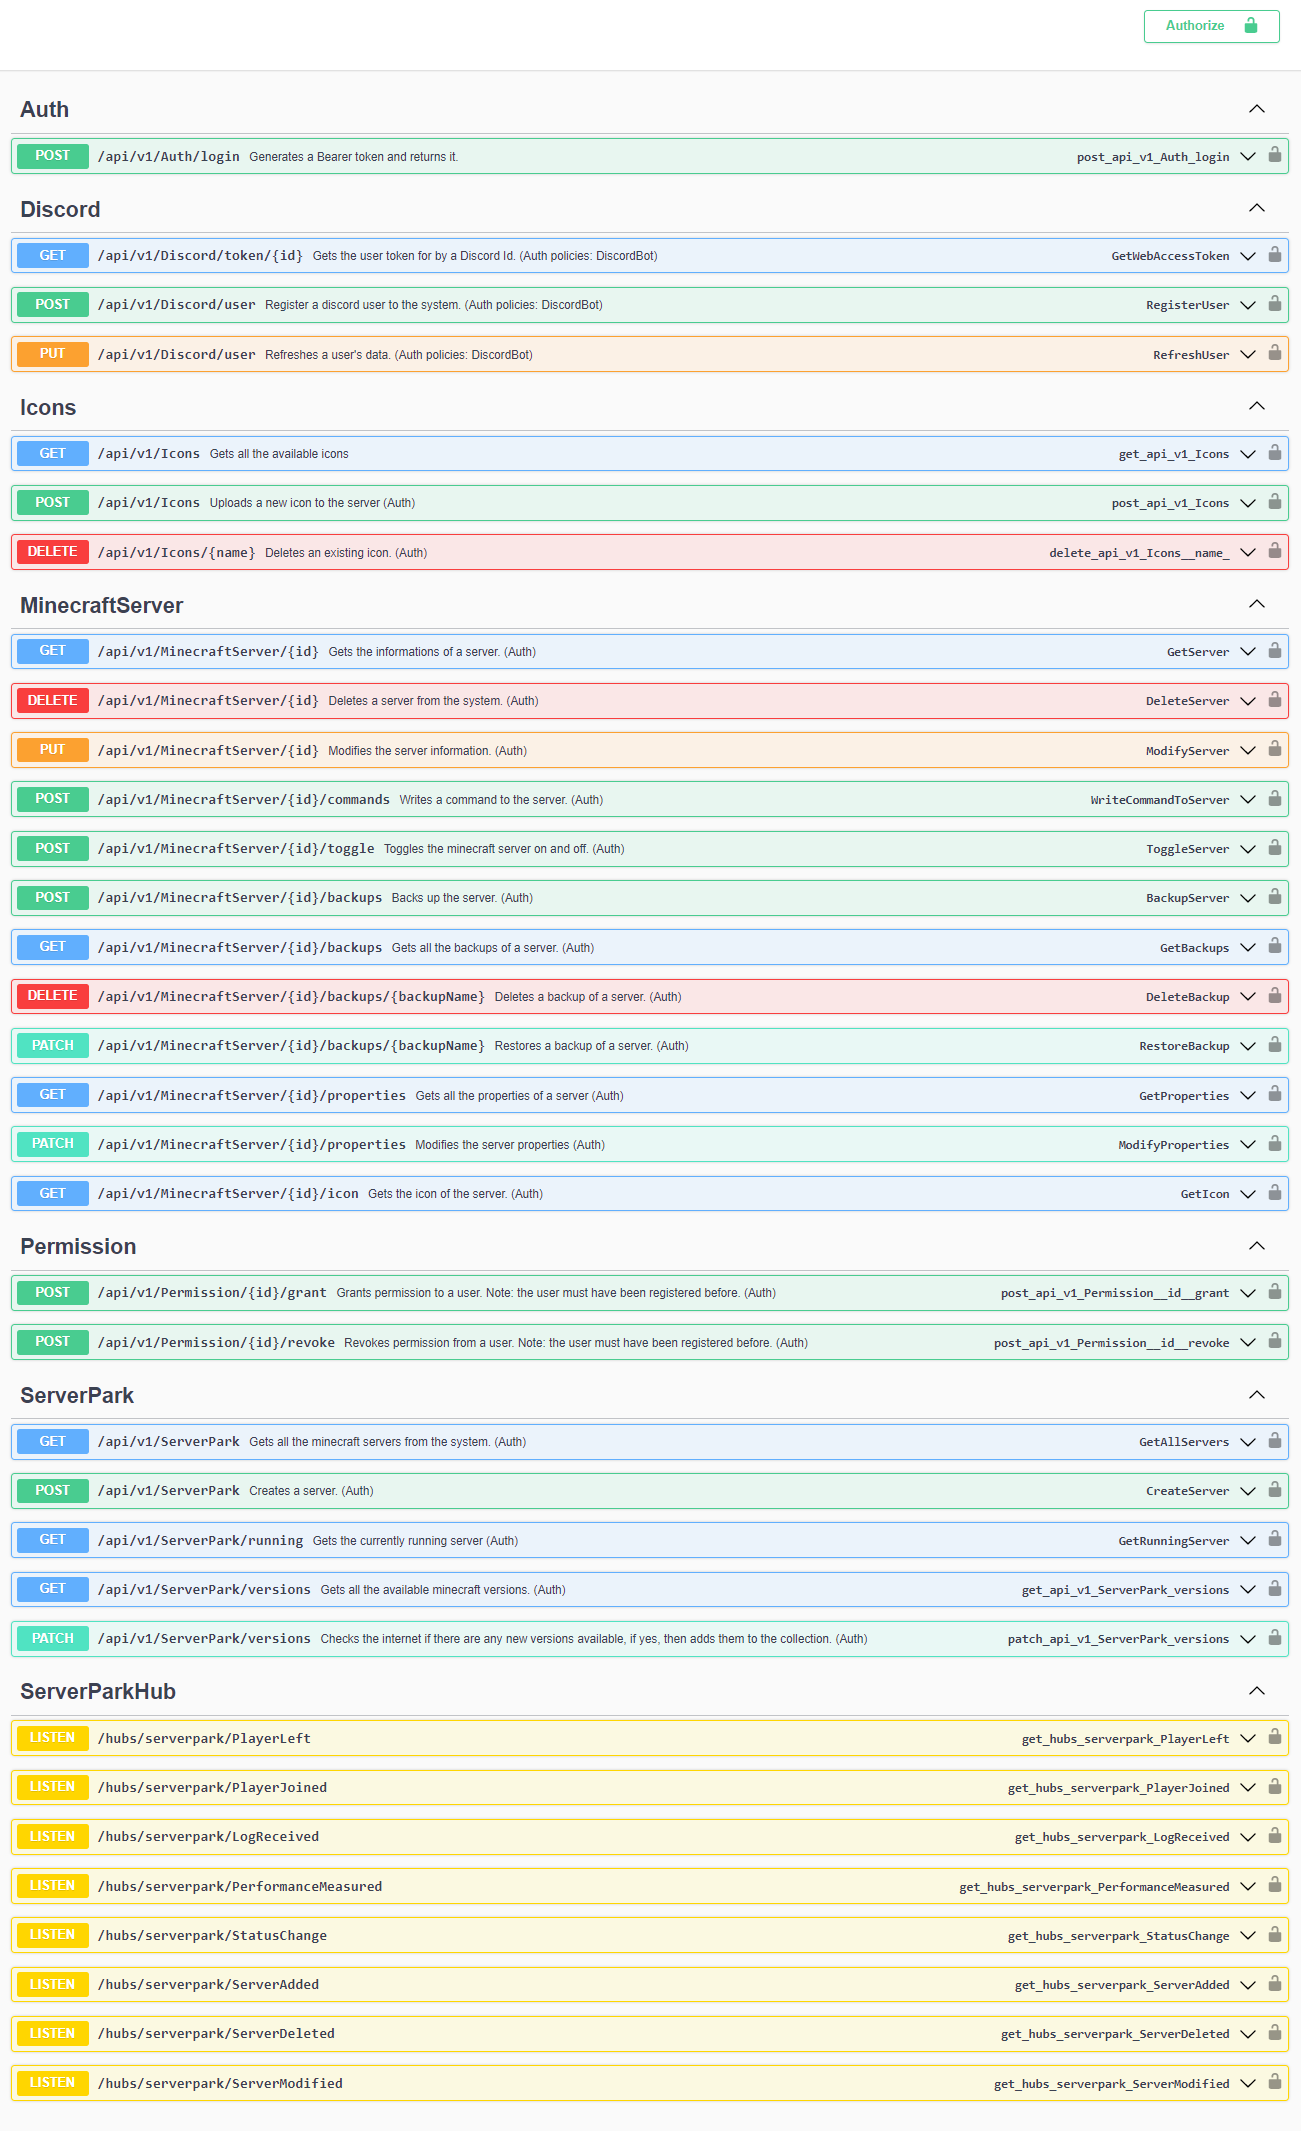
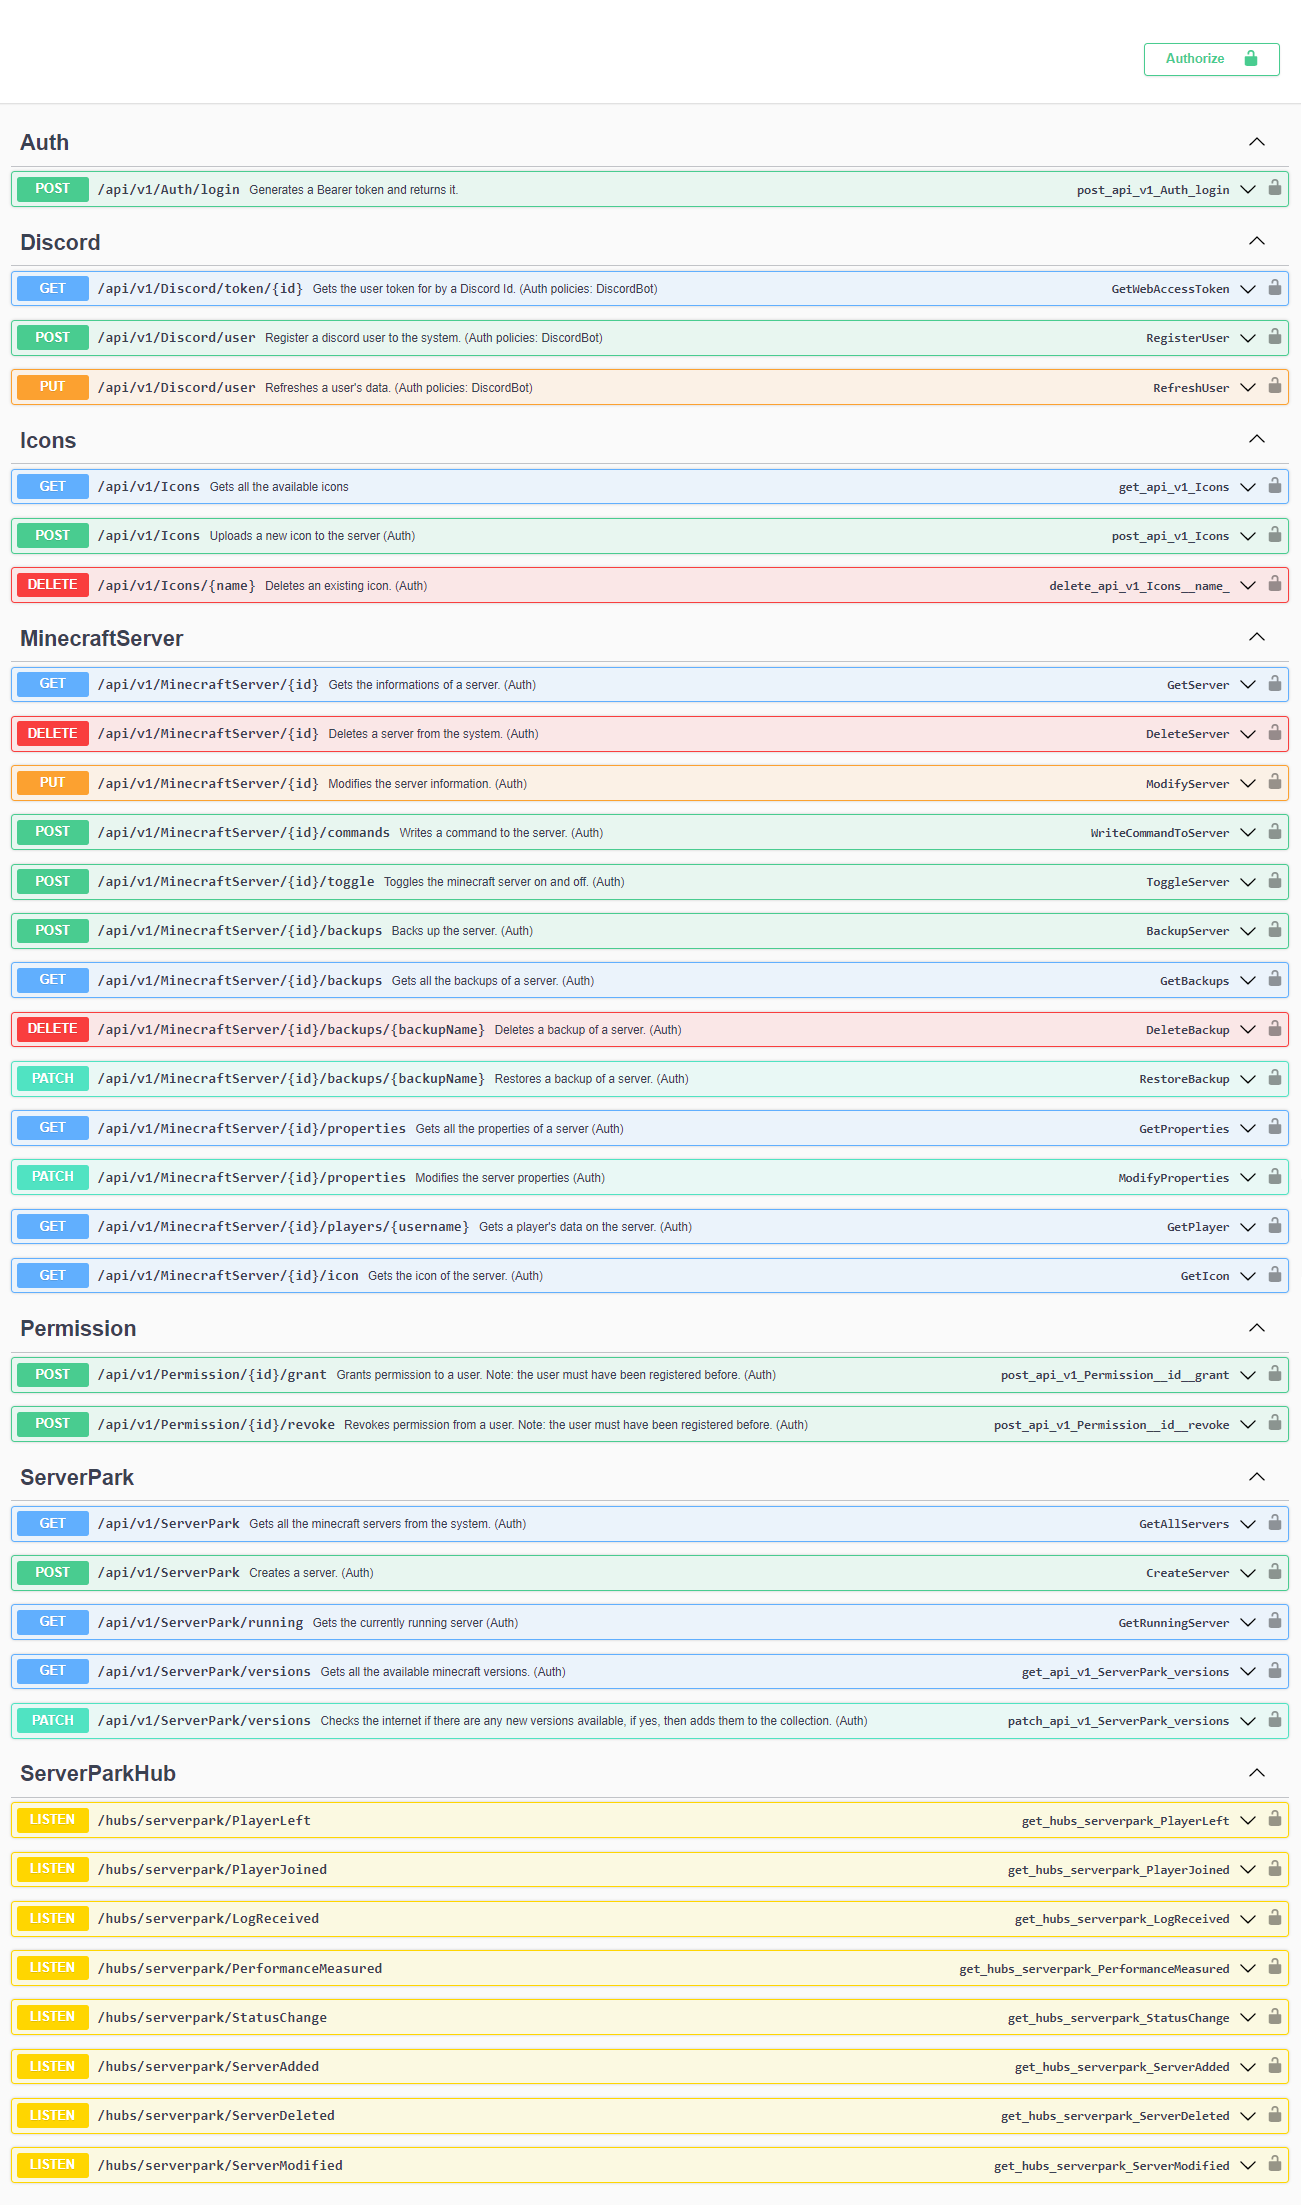
creating the c# api

Changed region(s): [[0.0, 0.031, 1.0, 0.9911], [0.8916, 0.0, 0.9839, 0.031]]

diff --git a/code/LogicApi/MCWebAPI/Controllers/api/v1/MinecraftServerController.cs b/code/LogicApi/MCWebAPI/Controllers/api/v1/MinecraftServerController.cs
@@ -108,17 +108,17 @@ public class MinecraftServerController : ApiController
     /// <param name="id">id of the minecraft server</param>
     /// <param name="commandDto">command data</param>
     /// <returns></returns>
-    /// <response code="204">The command is executed.</response>
+    /// <response code="200">The command is executed.</response>
     /// <response code="400">The server with the specified id does not exist or an exception happened during the command execution.</response>
     [HttpPost(RouteId + "/commands", Name = "WriteCommandToServer")]
-    [ProducesResponseType(StatusCodes.Status204NoContent)]
+    [ProducesResponseType(typeof(CommandResponse), StatusCodes.Status200OK)]
     [ProducesResponseType(typeof(ExceptionDTO), StatusCodes.Status400BadRequest)]
     public async Task<IActionResult> WriteCommand([FromRoute] long id, [FromBody] CommandDto commandDto)
     {
         var server = serverPark.GetServer(id);
 
         string? command = commandDto?.Command;
-        var response = await server.WriteCommand(command);
+        CommandResponse response = await server.WriteCommand(command);
         return Ok(response);
     }
 
@@ -183,7 +183,7 @@ public class MinecraftServerController : ApiController
     /// <param name="backupName"></param>
     /// <returns></returns>
     [HttpDelete(RouteId + "/backups/{backupName:regex(^[[\\w\\W]])}", Name = "DeleteBackup")]
-    [ProducesResponseType(StatusCodes.Status200OK)]
+    [ProducesResponseType(typeof(IBackup), StatusCodes.Status200OK)]
     [ProducesResponseType(typeof(ExceptionDTO), StatusCodes.Status400BadRequest)]
     public async Task<IActionResult> DeleteBackup([FromRoute] long id, [FromRoute] string backupName)
     {
@@ -205,6 +205,7 @@ public class MinecraftServerController : ApiController
     /// <param name="backupName"></param>
     /// <returns></returns>
     [HttpPatch(RouteId + "/backups/{backupName:regex(^[[\\w\\W]])}", Name = "RestoreBackup")]
+    [ProducesResponseType(StatusCodes.Status200OK)]
     public async Task<IActionResult> RestoreBackup([FromRoute] long id, [FromRoute] string backupName)
     {
         var server = serverPark.GetServer(id);
@@ -226,6 +227,7 @@ public class MinecraftServerController : ApiController
     /// <param name="id"></param>
     /// <returns></returns>
     [HttpGet(RouteId + "/properties", Name = "GetProperties")]
+    [ProducesResponseType(typeof(IMinecraftServerProperties), StatusCodes.Status200OK)]
     public async Task<IActionResult> GetProperties([FromRoute] long id)
     {
         var server = serverPark.GetServer(id);
@@ -242,6 +244,7 @@ public class MinecraftServerController : ApiController
     /// <returns></returns>
     /// <exception cref="NotImplementedException"></exception>
     [HttpPatch(RouteId + "/properties", Name = "ModifyProperties")]
+    [ProducesResponseType(StatusCodes.Status200OK)]
     public async Task<IActionResult> ModifyProperties([FromRoute] long id, [FromBody] MinecraftServerPropertiesDto dto)
     {
         var server = serverPark.GetServer(id);
@@ -257,6 +260,7 @@ public class MinecraftServerController : ApiController
     /// <param name="username"></param>
     /// <returns></returns>
     [HttpGet(RouteId + "/players/{username}", Name = "GetPlayer")]
+    [ProducesResponseType(typeof(IPlayerFull), StatusCodes.Status200OK)]
     public async Task<IActionResult> GetPlayerData([FromRoute] long id, [FromRoute] string username)
     {
         var server = serverPark.GetServer(id);
@@ -274,13 +278,13 @@ public class MinecraftServerController : ApiController
     /// </summary>
     /// <returns></returns>
     [HttpGet(RouteId + "/icon", Name = "GetIcon")]
+    [ProducesResponseType(StatusCodes.Status200OK)]
     public async Task<IActionResult> GetServerIcon([FromRoute] long id)
     {
         var server = serverPark.GetServer(id);
 
         var (extension, stream) = await _iconManager.GetIconOrErrorIconAsync(server.ServerIcon);
-
-
+        
         return new FileStreamResult(stream, "image/" + extension);
     }
 }

diff --git a/code/LogicApi/MCWebAPI/Controllers/api/v1/IconsController.cs b/code/LogicApi/MCWebAPI/Controllers/api/v1/IconsController.cs
@@ -1,4 +1,5 @@
-using MCWebAPI.Utils.Images;
+using APIModel.Responses;
+using MCWebAPI.Utils.Images;
 using Microsoft.AspNetCore.Authorization;
 using Microsoft.AspNetCore.Mvc;
 using SharedPublic.DTOs;
@@ -29,8 +30,10 @@ public class IconsController : ApiController
     /// Gets all the available icons
     /// </summary>
     /// <returns></returns>
+    /// <response code="200">Returns a list of absolute urls to the server icons.</response>
     [HttpGet]
     [AllowAnonymous]
+    [ProducesResponseType(typeof(ICollection<string>), StatusCodes.Status200OK)]
     public async Task<IActionResult> GetAllIcons()
     {
         var icons = await _iconManager.GetIcons();
@@ -54,6 +57,7 @@ public class IconsController : ApiController
     /// </summary>
     /// <returns></returns>
     [HttpDelete("{name}")]
+    [ProducesResponseType(StatusCodes.Status204NoContent)]
     public async Task<IActionResult> DeleteIcon([FromRoute] string name)
     {
         await _iconManager.DeleteIcon(name);

diff --git a/code/LogicApi/MCWebAPI/WebSocketHandler/SocketPool.cs b/code/LogicApi/MCWebAPI/WebSocketHandler/SocketPool.cs
@@ -50,10 +50,6 @@ namespace MCWebAPI.WebSocketHandler
         {
             _logger.Log("socket-pool", "Setting up listeners");
             
-            _serverPark.ActiveServerLogReceived += ActiveServerLogReceived;
-            _serverPark.ActiveServerPerformanceMeasured += ActiveServerPerformanceMeasured;
-            _serverPark.ActiveServerStatusChange += ActiveServerStatusChange;
-            
             _serverPark.ServerAdded += ServerAdded;
             _serverPark.ServerDeleted += ServerDeleted;
             _serverPark.ServerModified += ServerNameChanged;

diff --git a/Prismarine.NET/Class1.cs b/Prismarine.NET/Class1.cs
@@ -1,0 +1,7 @@
+namespace Prismarine.NET
+{
+    public class Class1
+    {
+
+    }
+}
